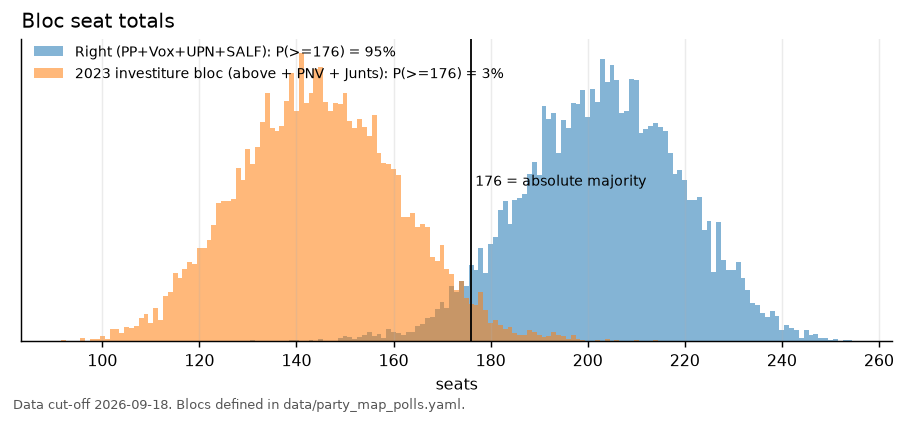
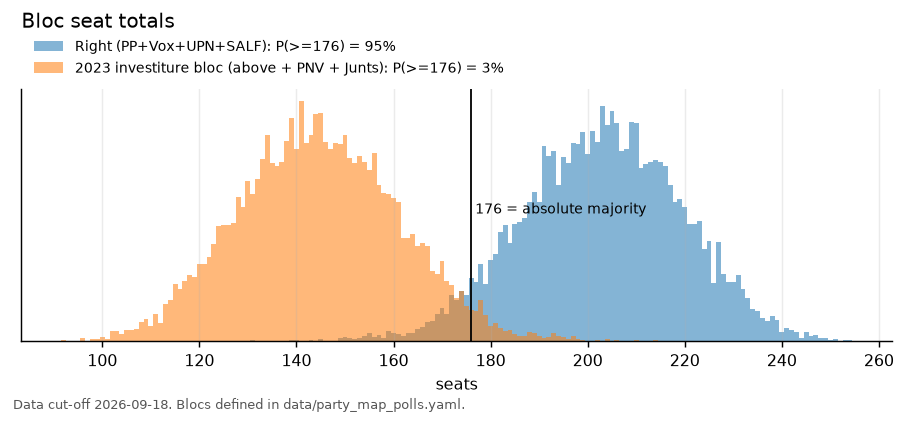
Fix legend placement in bloc-majority figures

diff --git a/src/electoral/plots.py b/src/electoral/plots.py
@@ -147,8 +147,8 @@ def plot_bloc_majority(seat_df: pd.DataFrame, blocs: dict[str, list[str]], path:
     ax.text(176, ax.get_ylim()[1] * 0.55, " 176 = absolute majority", fontsize=8, va="top")
     ax.set_xlabel("seats")
     ax.set_yticks([])
-    ax.legend(fontsize=8, loc="upper left", bbox_to_anchor=(0.0, 1.02))
-    ax.set_title("Bloc seat totals", loc="left", fontsize=11)
+    ax.legend(fontsize=8, loc="lower left", bbox_to_anchor=(0.0, 1.0), ncol=1)
+    ax.set_title("Bloc seat totals", loc="left", fontsize=11, pad=34)
     stamp(fig, cutoff, "Blocs defined in data/party_map_polls.yaml.")
     fig.tight_layout()
     fig.savefig(path, bbox_inches="tight")
